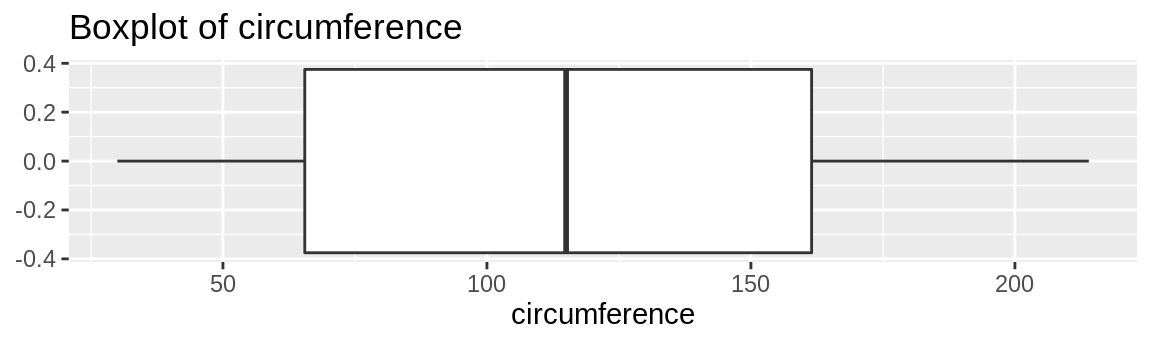
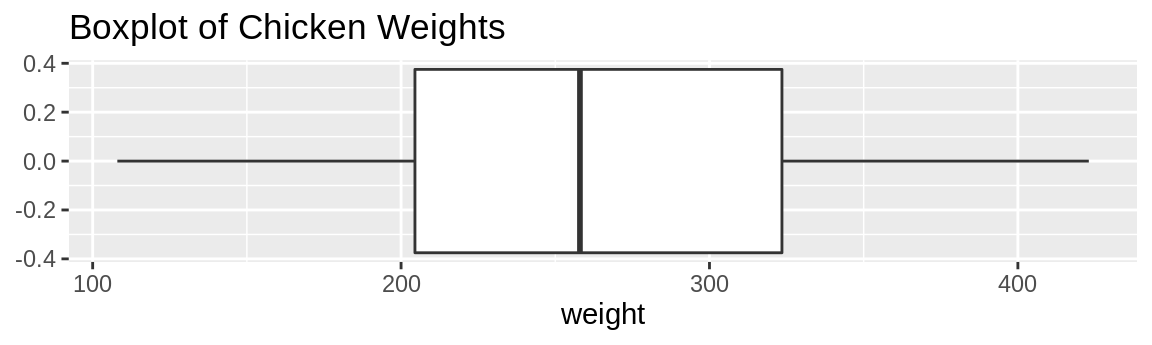
Deploying to gh-pages from @ jtr13/edav2@c979c9f6a3d85bff27b8020042b5f4b1e8a9b5d8 🚀

diff --git a/unidimensional-continuous-variables.html b/unidimensional-continuous-variables.html
@@ -221,8 +221,8 @@ code span.wa { color: #60a0b0; font-weight: bold; font-style: italic; } /* Warni
 <span id="cb14-7"><a href="unidimensional-continuous-variables.html#cb14-7"></a>df &lt;-<span class="st"> </span><span class="kw">data.frame</span>(x)</span>
 <span id="cb14-8"><a href="unidimensional-continuous-variables.html#cb14-8"></a></span>
 <span id="cb14-9"><a href="unidimensional-continuous-variables.html#cb14-9"></a><span class="kw">ggplot</span>(df, <span class="kw">aes</span>(x)) <span class="op">+</span></span>
-<span id="cb14-10"><a href="unidimensional-continuous-variables.html#cb14-10"></a><span class="st">  </span><span class="kw">geom_histogram</span>(<span class="dt">color =</span> <span class="st">&quot;blue&quot;</span>, <span class="dt">fill =</span> <span class="st">&quot;lightBlue&quot;</span>, <span class="dt">binwidth =</span> <span class="dv">5</span>, <span class="dt">center =</span> <span class="fl">52.5</span>) <span class="op">+</span></span>
-<span id="cb14-11"><a href="unidimensional-continuous-variables.html#cb14-11"></a><span class="st">  </span><span class="kw">ggtitle</span>(<span class="st">&quot;ggplot2 histogram of x&quot;</span>)</span></code></pre></div>
+<span id="cb14-10"><a href="unidimensional-continuous-variables.html#cb14-10"></a><span class="st">  </span><span class="kw">ggtitle</span>(<span class="st">&quot;ggplot2 histogram of x&quot;</span>) <span class="op">+</span></span>
+<span id="cb14-11"><a href="unidimensional-continuous-variables.html#cb14-11"></a><span class="st">  </span><span class="kw">geom_histogram</span>(<span class="dt">color =</span> <span class="st">&quot;blue&quot;</span>, <span class="dt">fill =</span> <span class="st">&quot;lightBlue&quot;</span>, <span class="dt">binwidth =</span> <span class="dv">5</span>, <span class="dt">center =</span> <span class="fl">52.5</span>)</span></code></pre></div>
 <p><img src="continuous_var_files/figure-html/unnamed-chunk-1-1.png" width="384" style="display: block; margin: auto;" /></p>
 <p>In this example, we used <code>geom_histogram</code> to create a histogram on variable <code>x</code>. We can see that it is quick to make and does not need much pre-processing. Moreover, Histograms show data’s empirical distribution within a set of intervals and we suggest using it as a one of the first steps to understand your data.</p>
 <p><em>Note:</em> as shown above, ggplot expects a dataframe, so make sure you do not throw a vector into ggplot.</p>
@@ -242,8 +242,8 @@ code span.wa { color: #60a0b0; font-weight: bold; font-style: italic; } /* Warni
 </ol>
 <div class="sourceCode" id="cb16"><pre class="sourceCode r"><code class="sourceCode r"><span id="cb16-1"><a href="unidimensional-continuous-variables.html#cb16-1"></a><span class="kw">ggplot</span>(finches, <span class="kw">aes</span>(<span class="dt">x =</span> Depth)) <span class="op">+</span></span>
 <span id="cb16-2"><a href="unidimensional-continuous-variables.html#cb16-2"></a><span class="st">  </span><span class="kw">geom_histogram</span>(<span class="kw">aes</span>(<span class="dt">y=</span><span class="kw">cumsum</span>(..count..)),<span class="dt">color=</span><span class="st">&quot;blue&quot;</span>,<span class="dt">fill=</span><span class="st">&quot;lightblue&quot;</span>,<span class="dt">binwidth =</span> <span class="fl">0.5</span>, <span class="dt">boundary =</span> <span class="dv">6</span>) <span class="op">+</span></span>
-<span id="cb16-3"><a href="unidimensional-continuous-variables.html#cb16-3"></a><span class="st">  </span><span class="kw">xlab</span>(<span class="st">&quot;Cumulative frequency&quot;</span>) <span class="op">+</span></span>
-<span id="cb16-4"><a href="unidimensional-continuous-variables.html#cb16-4"></a><span class="st">  </span><span class="kw">ggtitle</span>(<span class="st">&quot;Cumulative Frequency Histogram&quot;</span>)</span></code></pre></div>
+<span id="cb16-3"><a href="unidimensional-continuous-variables.html#cb16-3"></a><span class="st">  </span><span class="kw">ggtitle</span>(<span class="st">&quot;Cumulative Frequency Histogram&quot;</span>) <span class="op">+</span></span>
+<span id="cb16-4"><a href="unidimensional-continuous-variables.html#cb16-4"></a><span class="st">  </span><span class="kw">xlab</span>(<span class="st">&quot;Cumulative frequency&quot;</span>)</span></code></pre></div>
 <p><img src="continuous_var_files/figure-html/unnamed-chunk-4-1.png" width="460.8" style="display: block; margin: auto;" /></p>
 <ol start="3" style="list-style-type: decimal">
 <li>Density: y = relative frequency / binwidth</li>
@@ -322,29 +322,28 @@ We see that the graph is not ideal with some gaps. There are two ways to modify 
 <div id="single-boxplot" class="section level3">
 <h3><span class="header-section-number">4.2.1</span> Single Boxplot</h3>
 <p>A boxplot is one of the simplest ways of representing a distribution of a continuous variable (<strong>Never</strong> use boxplots for categorical data). It consists of two parts: box and whiskers. Let’s starting with a simple example: single boxplot.</p>
-<div class="sourceCode" id="cb22"><pre class="sourceCode r"><code class="sourceCode r"><span id="cb22-1"><a href="unidimensional-continuous-variables.html#cb22-1"></a><span class="kw">library</span>(datasets)</span>
-<span id="cb22-2"><a href="unidimensional-continuous-variables.html#cb22-2"></a><span class="kw">ggplot</span>(Orange, <span class="kw">aes</span>(<span class="dt">x=</span>circumference))<span class="op">+</span></span>
-<span id="cb22-3"><a href="unidimensional-continuous-variables.html#cb22-3"></a><span class="st">  </span><span class="kw">geom_boxplot</span>()<span class="op">+</span></span>
-<span id="cb22-4"><a href="unidimensional-continuous-variables.html#cb22-4"></a><span class="st">  </span><span class="kw">ggtitle</span>(<span class="st">&quot;Boxplot of circumference&quot;</span>)</span></code></pre></div>
+<div class="sourceCode" id="cb22"><pre class="sourceCode r"><code class="sourceCode r"><span id="cb22-1"><a href="unidimensional-continuous-variables.html#cb22-1"></a><span class="kw">ggplot</span>(chickwts, <span class="kw">aes</span>(<span class="dt">x=</span>weight)) <span class="op">+</span></span>
+<span id="cb22-2"><a href="unidimensional-continuous-variables.html#cb22-2"></a><span class="st">  </span><span class="kw">geom_boxplot</span>() <span class="op">+</span></span>
+<span id="cb22-3"><a href="unidimensional-continuous-variables.html#cb22-3"></a><span class="st">  </span><span class="kw">ggtitle</span>(<span class="st">&quot;Boxplot of Chicken Weights&quot;</span>)</span></code></pre></div>
 <p><img src="continuous_var_files/figure-html/unnamed-chunk-10-1.png" width="576" style="display: block; margin: auto;" /></p>
 <p>Here as you can see, boxplots provide a ton of information for a single chart. Boxplots tell you whether the variable is normally distributed, or if the distribution is skewed in either direction. You can also easily spot the outliers, which always helps.</p>
 </div>
 <div id="multiple-boxplots" class="section level3">
 <h3><span class="header-section-number">4.2.2</span> Multiple boxplots</h3>
 <p>Next, what if you want to compare the distributions between multiple classes? Here, you can create a multiple boxplot. But remember, your data frame needs to be tidy, that is you need to have a column with levels of the grouping variable. It can be be factor, character, or integer class.</p>
-<p>The following example still use the <code>Orange</code> dataset. We compare the distributions of <code>circumference</code> between different <code>Tree</code>(which indicates the tree types with ordering of max diameter).</p>
-<div class="sourceCode" id="cb23"><pre class="sourceCode r"><code class="sourceCode r"><span id="cb23-1"><a href="unidimensional-continuous-variables.html#cb23-1"></a><span class="kw">ggplot</span>(Orange, <span class="kw">aes</span>(<span class="dt">x=</span><span class="kw">reorder</span>(Tree, <span class="op">-</span>circumference, median),<span class="dt">y=</span>circumference))<span class="op">+</span></span>
-<span id="cb23-2"><a href="unidimensional-continuous-variables.html#cb23-2"></a><span class="st">  </span><span class="kw">geom_boxplot</span>()<span class="op">+</span></span>
-<span id="cb23-3"><a href="unidimensional-continuous-variables.html#cb23-3"></a><span class="st">  </span><span class="kw">ggtitle</span>(<span class="st">&quot;Multiple boxplots of circumference of different types of Trees&quot;</span>)<span class="op">+</span></span>
-<span id="cb23-4"><a href="unidimensional-continuous-variables.html#cb23-4"></a><span class="st">  </span><span class="kw">labs</span>(<span class="dt">y=</span><span class="st">&quot;Circumference at Breast Height&quot;</span>, <span class="dt">x=</span><span class="st">&quot;Tree with ordering of max diameter&quot;</span>)</span></code></pre></div>
+<p>The following example still use the <code>chickwts</code> dataset. We compare the distributions of <code>weight</code> between different <code>feed</code>(which is a column with six factor levels).</p>
+<div class="sourceCode" id="cb23"><pre class="sourceCode r"><code class="sourceCode r"><span id="cb23-1"><a href="unidimensional-continuous-variables.html#cb23-1"></a><span class="kw">ggplot</span>(chickwts, <span class="kw">aes</span>(<span class="dt">x=</span><span class="kw">reorder</span>(feed, <span class="op">-</span>weight, median),<span class="dt">y=</span>weight)) <span class="op">+</span></span>
+<span id="cb23-2"><a href="unidimensional-continuous-variables.html#cb23-2"></a><span class="st">  </span><span class="kw">geom_boxplot</span>() <span class="op">+</span></span>
+<span id="cb23-3"><a href="unidimensional-continuous-variables.html#cb23-3"></a><span class="st">  </span><span class="kw">ggtitle</span>(<span class="st">&quot;Multiple boxplots of chicken weights according to feed type&quot;</span>) <span class="op">+</span></span>
+<span id="cb23-4"><a href="unidimensional-continuous-variables.html#cb23-4"></a><span class="st">  </span><span class="kw">labs</span>(<span class="dt">y=</span><span class="st">&quot;Weight&quot;</span>, <span class="dt">x=</span><span class="st">&quot;Feed Type&quot;</span>)</span></code></pre></div>
 <p><img src="continuous_var_files/figure-html/unnamed-chunk-11-1.png" width="576" style="display: block; margin: auto;" /></p>
 <p><strong>Note.</strong> Usually in a boxplot, the boxes should be reordered so that there will be a decreasing order of the class medians from left to right.</p>
 <p>Often you want boxplots to be horizontal. Super easy to do in <code>ggplot2</code>: just tack on <code>+ coord_flip()</code> and remove the <code>-</code> from the reordering so that the factor level with the highest median will be on top:</p>
-<div class="sourceCode" id="cb24"><pre class="sourceCode r"><code class="sourceCode r"><span id="cb24-1"><a href="unidimensional-continuous-variables.html#cb24-1"></a><span class="kw">ggplot</span>(Orange, <span class="kw">aes</span>(<span class="dt">x=</span><span class="kw">reorder</span>(Tree, circumference, median),<span class="dt">y=</span>circumference))<span class="op">+</span></span>
-<span id="cb24-2"><a href="unidimensional-continuous-variables.html#cb24-2"></a><span class="st">  </span><span class="kw">geom_boxplot</span>()<span class="op">+</span><span class="st"> </span></span>
-<span id="cb24-3"><a href="unidimensional-continuous-variables.html#cb24-3"></a><span class="st">  </span><span class="kw">coord_flip</span>()<span class="op">+</span></span>
-<span id="cb24-4"><a href="unidimensional-continuous-variables.html#cb24-4"></a><span class="st">  </span><span class="kw">ggtitle</span>(<span class="st">&quot;Multiple boxplots of circumference of different types of Trees&quot;</span>)<span class="op">+</span></span>
-<span id="cb24-5"><a href="unidimensional-continuous-variables.html#cb24-5"></a><span class="st">  </span><span class="kw">labs</span>(<span class="dt">y=</span><span class="st">&quot;Circumference at Breast Height&quot;</span>, <span class="dt">x=</span><span class="st">&quot;Tree with ordering of max diameter&quot;</span>)</span></code></pre></div>
+<div class="sourceCode" id="cb24"><pre class="sourceCode r"><code class="sourceCode r"><span id="cb24-1"><a href="unidimensional-continuous-variables.html#cb24-1"></a><span class="kw">ggplot</span>(chickwts, <span class="kw">aes</span>(<span class="dt">x=</span><span class="kw">reorder</span>(feed, weight, median),<span class="dt">y=</span>weight)) <span class="op">+</span></span>
+<span id="cb24-2"><a href="unidimensional-continuous-variables.html#cb24-2"></a><span class="st">  </span><span class="kw">geom_boxplot</span>() <span class="op">+</span></span>
+<span id="cb24-3"><a href="unidimensional-continuous-variables.html#cb24-3"></a><span class="st">  </span><span class="kw">coord_flip</span>() <span class="op">+</span></span>
+<span id="cb24-4"><a href="unidimensional-continuous-variables.html#cb24-4"></a><span class="st">  </span><span class="kw">ggtitle</span>(<span class="st">&quot;Multiple boxplots of chicken weights according to feed type&quot;</span>) <span class="op">+</span></span>
+<span id="cb24-5"><a href="unidimensional-continuous-variables.html#cb24-5"></a><span class="st">  </span><span class="kw">labs</span>(<span class="dt">y=</span><span class="st">&quot;Weight&quot;</span>, <span class="dt">x=</span><span class="st">&quot;Feed Type&quot;</span>)</span></code></pre></div>
 <p><img src="continuous_var_files/figure-html/unnamed-chunk-12-1.png" width="576" style="display: block; margin: auto;" /></p>
 </div>
 <div id="additional-resources" class="section level3">
@@ -371,19 +370,19 @@ We see that the graph is not ideal with some gaps. There are two ways to modify 
 <span id="cb25-3"><a href="unidimensional-continuous-variables.html#cb25-3"></a></span>
 <span id="cb25-4"><a href="unidimensional-continuous-variables.html#cb25-4"></a>world &lt;-<span class="st"> </span><span class="kw">read.csv</span>(<span class="st">&quot;countries2012.csv&quot;</span>)</span>
 <span id="cb25-5"><a href="unidimensional-continuous-variables.html#cb25-5"></a></span>
-<span id="cb25-6"><a href="unidimensional-continuous-variables.html#cb25-6"></a><span class="kw">ggplot</span>(world, <span class="kw">aes</span>(<span class="dt">x =</span> GDP, <span class="dt">y =</span> <span class="kw">reorder</span>(CONTINENT, <span class="op">-</span>GDP,median))) <span class="op">+</span><span class="st"> </span></span>
+<span id="cb25-6"><a href="unidimensional-continuous-variables.html#cb25-6"></a><span class="kw">ggplot</span>(world, <span class="kw">aes</span>(<span class="dt">x =</span> GDP, <span class="dt">y =</span> <span class="kw">reorder</span>(CONTINENT, <span class="op">-</span>GDP,median))) <span class="op">+</span></span>
 <span id="cb25-7"><a href="unidimensional-continuous-variables.html#cb25-7"></a><span class="st">  </span><span class="kw">geom_density_ridges</span>(<span class="dt">fill =</span> <span class="st">&quot;blue&quot;</span>) <span class="op">+</span></span>
-<span id="cb25-8"><a href="unidimensional-continuous-variables.html#cb25-8"></a><span class="st">  </span><span class="kw">ylab</span>(<span class="st">&quot;Continent&quot;</span>) <span class="op">+</span></span>
-<span id="cb25-9"><a href="unidimensional-continuous-variables.html#cb25-9"></a><span class="st">  </span><span class="kw">ggtitle</span>(<span class="st">&quot;2012 Continental GDP&quot;</span>)</span></code></pre></div>
+<span id="cb25-8"><a href="unidimensional-continuous-variables.html#cb25-8"></a><span class="st">  </span><span class="kw">ggtitle</span>(<span class="st">&quot;2012 Continental GDP&quot;</span>) <span class="op">+</span></span>
+<span id="cb25-9"><a href="unidimensional-continuous-variables.html#cb25-9"></a><span class="st">  </span><span class="kw">ylab</span>(<span class="st">&quot;Continent&quot;</span>)</span></code></pre></div>
 <p><img src="continuous_var_files/figure-html/unnamed-chunk-13-1.png" width="460.8" style="display: block; margin: auto;" /></p>
 <p><code>ggridge</code> uses two main geoms to plot the ridgeline density plots: <code>geom_density_ridges</code> and <code>geom_ridgeline</code>. They are used to plot the densities of categorical variable factors and see their distribution over a continuous scale.</p>
 </div>
 <div id="create-better-visuals" class="section level3">
 <h3><span class="header-section-number">4.3.2</span> Create better visuals</h3>
-<div class="sourceCode" id="cb26"><pre class="sourceCode r"><code class="sourceCode r"><span id="cb26-1"><a href="unidimensional-continuous-variables.html#cb26-1"></a><span class="kw">ggplot</span>(world, <span class="kw">aes</span>(<span class="dt">x =</span> GDP, <span class="dt">y =</span> <span class="kw">reorder</span>(CONTINENT, <span class="op">-</span>GDP,median))) <span class="op">+</span><span class="st"> </span></span>
+<div class="sourceCode" id="cb26"><pre class="sourceCode r"><code class="sourceCode r"><span id="cb26-1"><a href="unidimensional-continuous-variables.html#cb26-1"></a><span class="kw">ggplot</span>(world, <span class="kw">aes</span>(<span class="dt">x =</span> GDP, <span class="dt">y =</span> <span class="kw">reorder</span>(CONTINENT, <span class="op">-</span>GDP,median))) <span class="op">+</span></span>
 <span id="cb26-2"><a href="unidimensional-continuous-variables.html#cb26-2"></a><span class="st">  </span><span class="kw">geom_density_ridges</span>(<span class="dt">fill =</span> <span class="st">&quot;blue&quot;</span>,<span class="dt">alpha =</span> <span class="fl">.5</span>, <span class="dt">scale =</span> <span class="fl">1.2</span>) <span class="op">+</span></span>
-<span id="cb26-3"><a href="unidimensional-continuous-variables.html#cb26-3"></a><span class="st">  </span><span class="kw">ylab</span>(<span class="st">&quot;Continent&quot;</span>) <span class="op">+</span></span>
-<span id="cb26-4"><a href="unidimensional-continuous-variables.html#cb26-4"></a><span class="st">  </span><span class="kw">ggtitle</span>(<span class="st">&quot;2012 Continental GDP&quot;</span>)</span></code></pre></div>
+<span id="cb26-3"><a href="unidimensional-continuous-variables.html#cb26-3"></a><span class="st">  </span><span class="kw">ggtitle</span>(<span class="st">&quot;2012 Continental GDP&quot;</span>) <span class="op">+</span></span>
+<span id="cb26-4"><a href="unidimensional-continuous-variables.html#cb26-4"></a><span class="st">  </span><span class="kw">ylab</span>(<span class="st">&quot;Continent&quot;</span>)</span></code></pre></div>
 <p><img src="continuous_var_files/figure-html/unnamed-chunk-14-1.png" width="460.8" style="display: block; margin: auto;" /></p>
 <p>In this example, we added parameter <code>scale</code> and <code>alpha</code> to control overlaps between ridges. Scale defines how much the peak of the lower curve touches the curve above and <code>alpha</code> controls transparency.</p>
 </div>
@@ -403,7 +402,7 @@ We see that the graph is not ideal with some gaps. There are two ways to modify 
 <p>There are many ways to draw a normal curve and we introduce one here:</p>
 <div class="sourceCode" id="cb27"><pre class="sourceCode r"><code class="sourceCode r"><span id="cb27-1"><a href="unidimensional-continuous-variables.html#cb27-1"></a><span class="kw">ggplot</span>(finches, <span class="kw">aes</span>(<span class="dt">x =</span> Depth)) <span class="op">+</span></span>
 <span id="cb27-2"><a href="unidimensional-continuous-variables.html#cb27-2"></a><span class="st">  </span><span class="kw">geom_histogram</span>(<span class="kw">aes</span>(<span class="dt">y=</span>..density..),<span class="dt">color=</span><span class="st">&quot;blue&quot;</span>,<span class="dt">fill=</span><span class="st">&quot;lightblue&quot;</span>,<span class="dt">binwidth =</span> <span class="fl">0.5</span>) <span class="op">+</span></span>
-<span id="cb27-3"><a href="unidimensional-continuous-variables.html#cb27-3"></a><span class="st">  </span><span class="kw">stat_function</span>(<span class="dt">fun=</span>dnorm, <span class="dt">col =</span> <span class="st">&quot;red&quot;</span>,<span class="dt">args=</span><span class="kw">list</span>(<span class="kw">mean</span>(finches<span class="op">$</span>Depth),<span class="kw">sd</span>(finches<span class="op">$</span>Depth)))<span class="op">+</span></span>
+<span id="cb27-3"><a href="unidimensional-continuous-variables.html#cb27-3"></a><span class="st">  </span><span class="kw">stat_function</span>(<span class="dt">fun=</span>dnorm, <span class="dt">col =</span> <span class="st">&quot;red&quot;</span>,<span class="dt">args=</span><span class="kw">list</span>(<span class="kw">mean</span>(finches<span class="op">$</span>Depth),<span class="kw">sd</span>(finches<span class="op">$</span>Depth))) <span class="op">+</span></span>
 <span id="cb27-4"><a href="unidimensional-continuous-variables.html#cb27-4"></a><span class="st">  </span><span class="kw">ggtitle</span>(<span class="st">&quot;Normal curve overlaid&quot;</span>)</span></code></pre></div>
 <p><img src="continuous_var_files/figure-html/unnamed-chunk-15-1.png" width="460.8" style="display: block; margin: auto;" /></p>
 <p>In some situations you might want to draw separate normal curves after faceting on a categorical variable. Simply using <code>stat_function</code> will not generate the desired result. Consider the following examples, where normal curves were created for four plots using a single <code>stat_function</code>.</p>

diff --git a/continuous_var.md b/continuous_var.md
@@ -18,8 +18,8 @@ x <- c(50, 51, 53, 55, 56, 60, 65, 65, 68)
 df <- data.frame(x)
 
 ggplot(df, aes(x)) +
-  geom_histogram(color = "blue", fill = "lightBlue", binwidth = 5, center = 52.5) +
-  ggtitle("ggplot2 histogram of x")
+  ggtitle("ggplot2 histogram of x") +
+  geom_histogram(color = "blue", fill = "lightBlue", binwidth = 5, center = 52.5)
 ```
 
 <img src="continuous_var_files/figure-html/unnamed-chunk-1-1.png" width="384" style="display: block; margin: auto;" />
@@ -51,8 +51,8 @@ ggplot(finches, aes(x = Depth)) +
 ```r
 ggplot(finches, aes(x = Depth)) +
   geom_histogram(aes(y=cumsum(..count..)),color="blue",fill="lightblue",binwidth = 0.5, boundary = 6) +
-  xlab("Cumulative frequency") +
-  ggtitle("Cumulative Frequency Histogram")
+  ggtitle("Cumulative Frequency Histogram") +
+  xlab("Cumulative frequency")
 ```
 
 <img src="continuous_var_files/figure-html/unnamed-chunk-4-1.png" width="460.8" style="display: block; margin: auto;" />
@@ -163,10 +163,9 @@ A boxplot is one of the simplest ways of representing a distribution of a contin
 
 
 ```r
-library(datasets)
-ggplot(Orange, aes(x=circumference))+
-  geom_boxplot()+
-  ggtitle("Boxplot of circumference")
+ggplot(chickwts, aes(x=weight)) +
+  geom_boxplot() +
+  ggtitle("Boxplot of Chicken Weights")
 ```
 
 <img src="continuous_var_files/figure-html/unnamed-chunk-10-1.png" width="576" style="display: block; margin: auto;" />
@@ -177,14 +176,14 @@ Here as you can see, boxplots provide a ton of information for a single chart. B
 
 Next, what if you want to compare the distributions between multiple classes? Here, you can create a multiple boxplot. But remember, your data frame needs to be tidy, that is you need to have a column with levels of the grouping variable. It can be be factor, character, or integer class.
 
-The following example still use the ``Orange`` dataset. We compare the distributions of ``circumference`` between different ``Tree``(which indicates the tree types with ordering of max diameter).
+The following example still use the ``chickwts`` dataset. We compare the distributions of ``weight`` between different ``feed``(which is a column with six factor levels).
 
 
 ```r
-ggplot(Orange, aes(x=reorder(Tree, -circumference, median),y=circumference))+
-  geom_boxplot()+
-  ggtitle("Multiple boxplots of circumference of different types of Trees")+
-  labs(y="Circumference at Breast Height", x="Tree with ordering of max diameter")
+ggplot(chickwts, aes(x=reorder(feed, -weight, median),y=weight)) +
+  geom_boxplot() +
+  ggtitle("Multiple boxplots of chicken weights according to feed type") +
+  labs(y="Weight", x="Feed Type")
 ```
 
 <img src="continuous_var_files/figure-html/unnamed-chunk-11-1.png" width="576" style="display: block; margin: auto;" />
@@ -195,11 +194,11 @@ Often you want boxplots to be horizontal. Super easy to do in ``ggplot2``: just 
 
 
 ```r
-ggplot(Orange, aes(x=reorder(Tree, circumference, median),y=circumference))+
-  geom_boxplot()+ 
-  coord_flip()+
-  ggtitle("Multiple boxplots of circumference of different types of Trees")+
-  labs(y="Circumference at Breast Height", x="Tree with ordering of max diameter")
+ggplot(chickwts, aes(x=reorder(feed, weight, median),y=weight)) +
+  geom_boxplot() +
+  coord_flip() +
+  ggtitle("Multiple boxplots of chicken weights according to feed type") +
+  labs(y="Weight", x="Feed Type")
 ```
 
 <img src="continuous_var_files/figure-html/unnamed-chunk-12-1.png" width="576" style="display: block; margin: auto;" />
@@ -232,10 +231,10 @@ library(forcats)
 
 world <- read.csv("countries2012.csv")
 
-ggplot(world, aes(x = GDP, y = reorder(CONTINENT, -GDP,median))) + 
+ggplot(world, aes(x = GDP, y = reorder(CONTINENT, -GDP,median))) +
   geom_density_ridges(fill = "blue") +
-  ylab("Continent") +
-  ggtitle("2012 Continental GDP")
+  ggtitle("2012 Continental GDP") +
+  ylab("Continent")
 ```
 
 <img src="continuous_var_files/figure-html/unnamed-chunk-13-1.png" width="460.8" style="display: block; margin: auto;" />
@@ -246,10 +245,10 @@ ggplot(world, aes(x = GDP, y = reorder(CONTINENT, -GDP,median))) +
 
 
 ```r
-ggplot(world, aes(x = GDP, y = reorder(CONTINENT, -GDP,median))) + 
+ggplot(world, aes(x = GDP, y = reorder(CONTINENT, -GDP,median))) +
   geom_density_ridges(fill = "blue",alpha = .5, scale = 1.2) +
-  ylab("Continent") +
-  ggtitle("2012 Continental GDP")
+  ggtitle("2012 Continental GDP") +
+  ylab("Continent")
 ```
 
 <img src="continuous_var_files/figure-html/unnamed-chunk-14-1.png" width="460.8" style="display: block; margin: auto;" />
@@ -277,7 +276,7 @@ There are many ways to draw a normal curve and we introduce one here:
 ```r
 ggplot(finches, aes(x = Depth)) +
   geom_histogram(aes(y=..density..),color="blue",fill="lightblue",binwidth = 0.5) +
-  stat_function(fun=dnorm, col = "red",args=list(mean(finches$Depth),sd(finches$Depth)))+
+  stat_function(fun=dnorm, col = "red",args=list(mean(finches$Depth),sd(finches$Depth))) +
   ggtitle("Normal curve overlaid")
 ```
 
